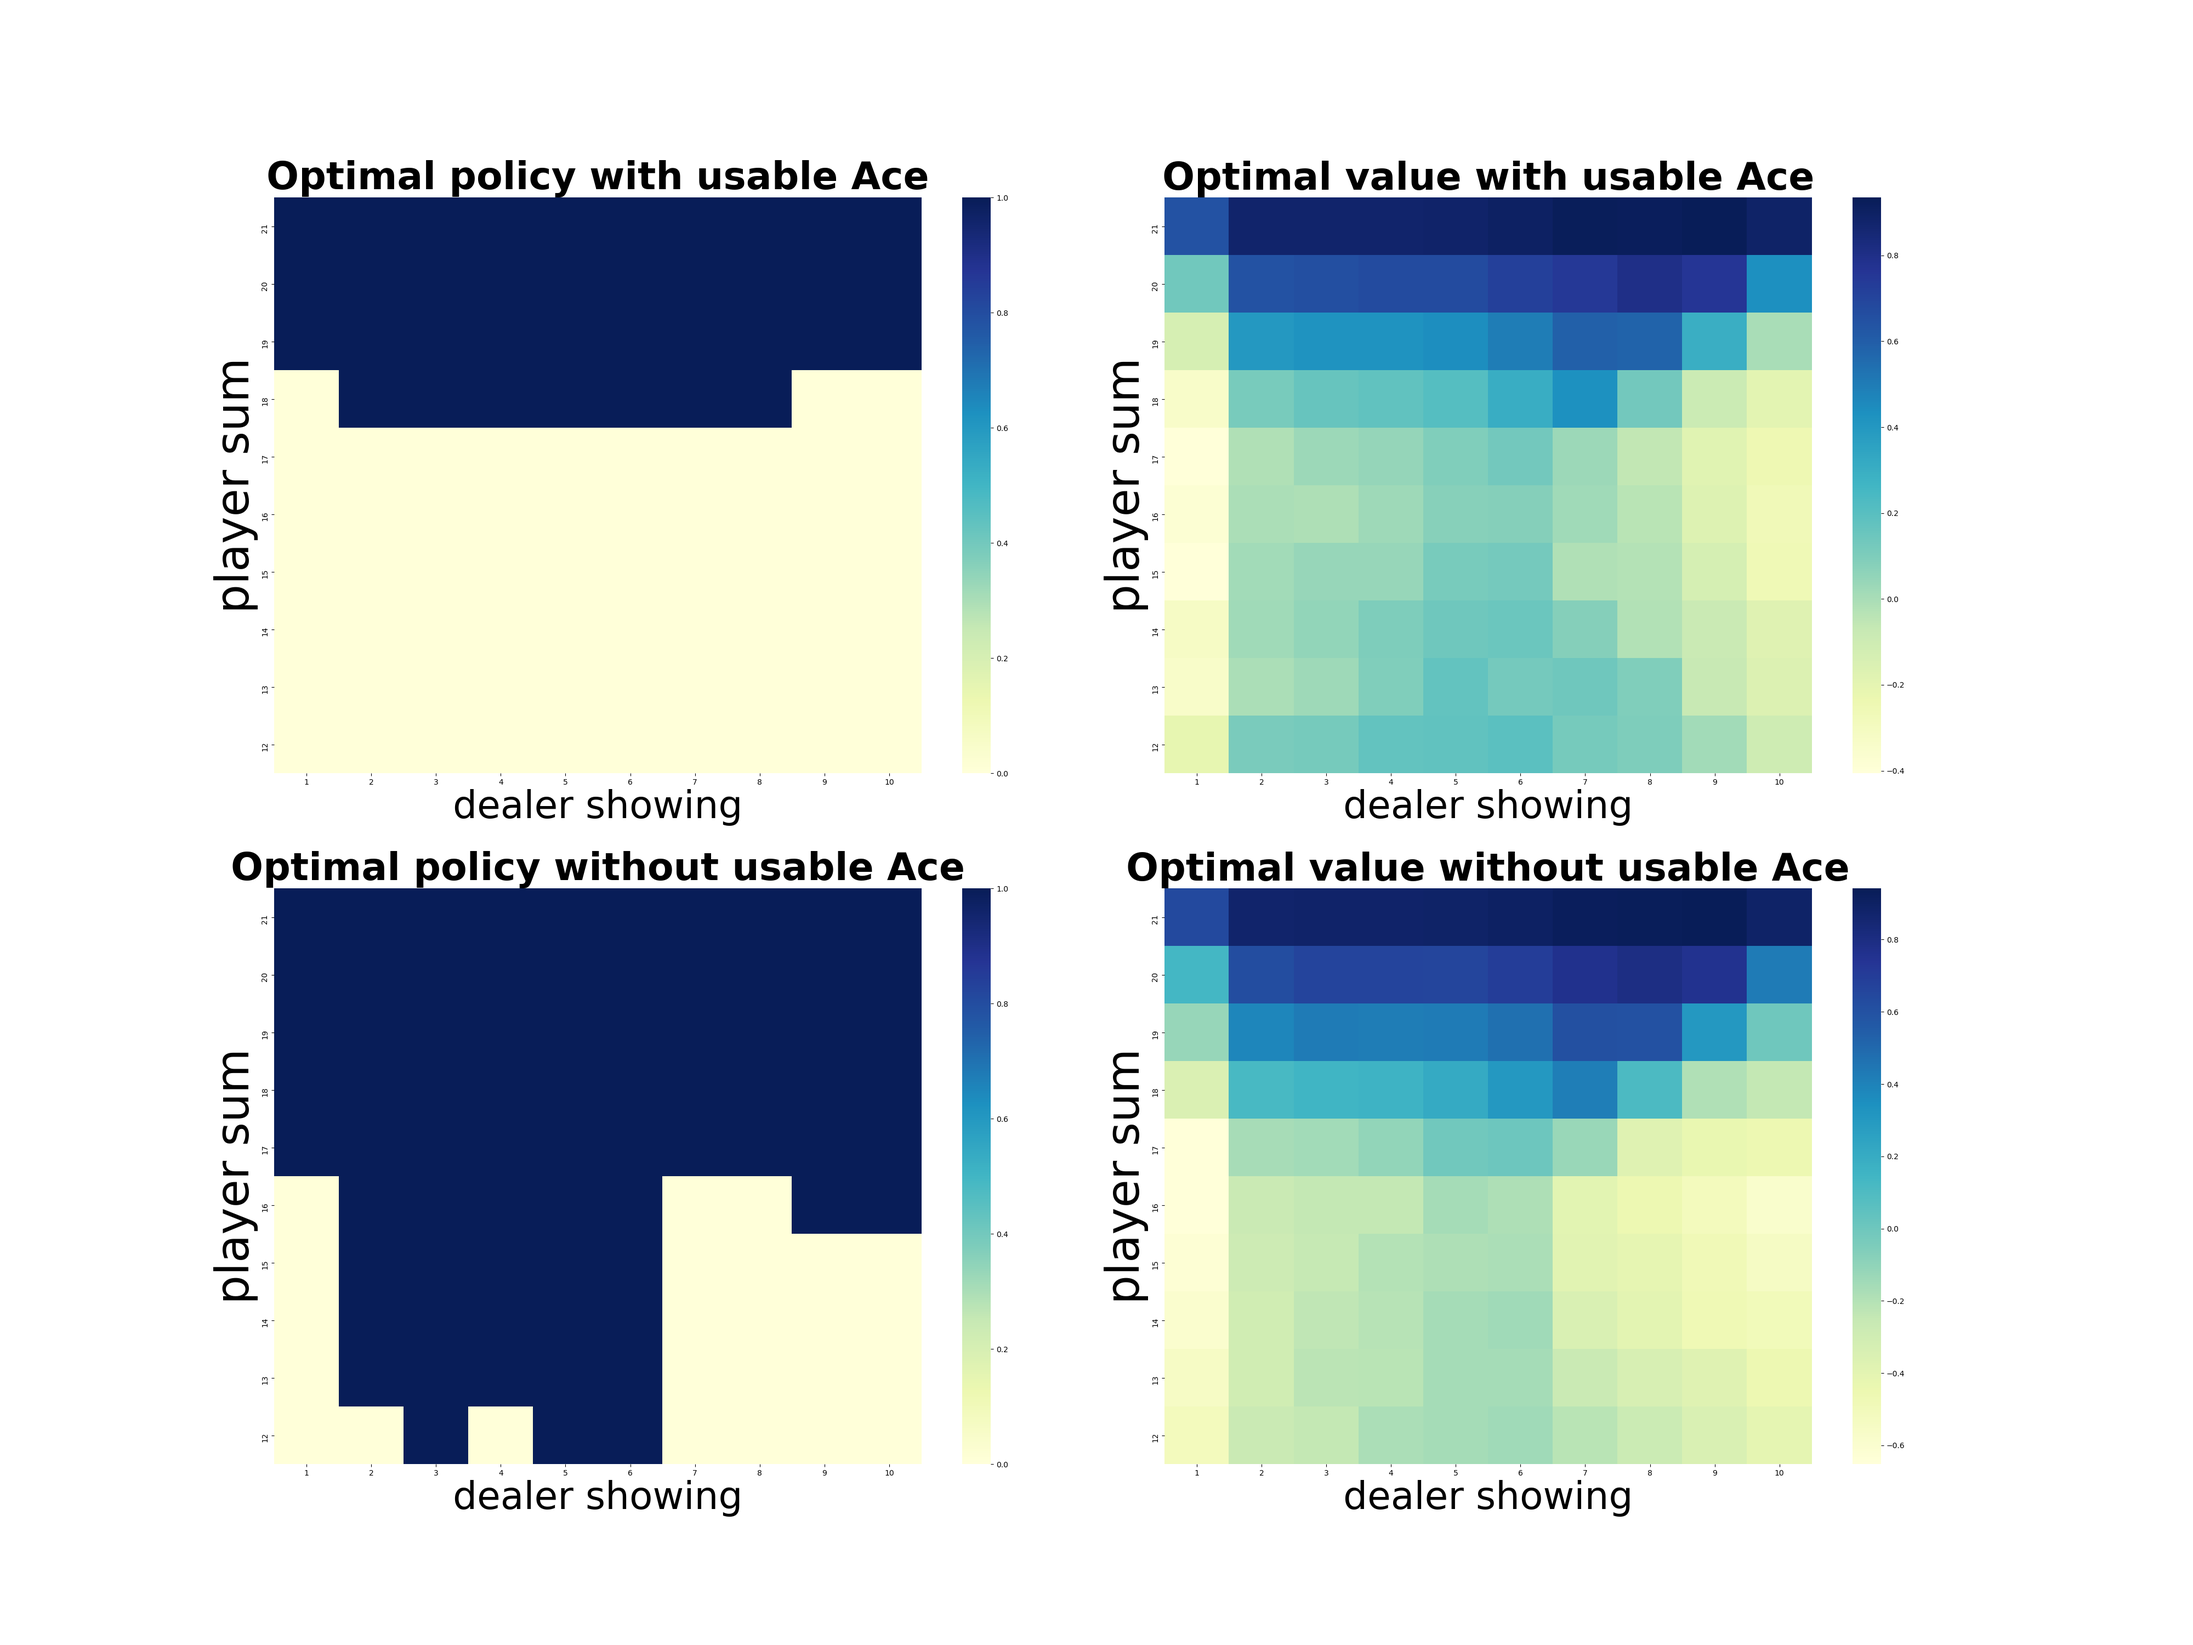
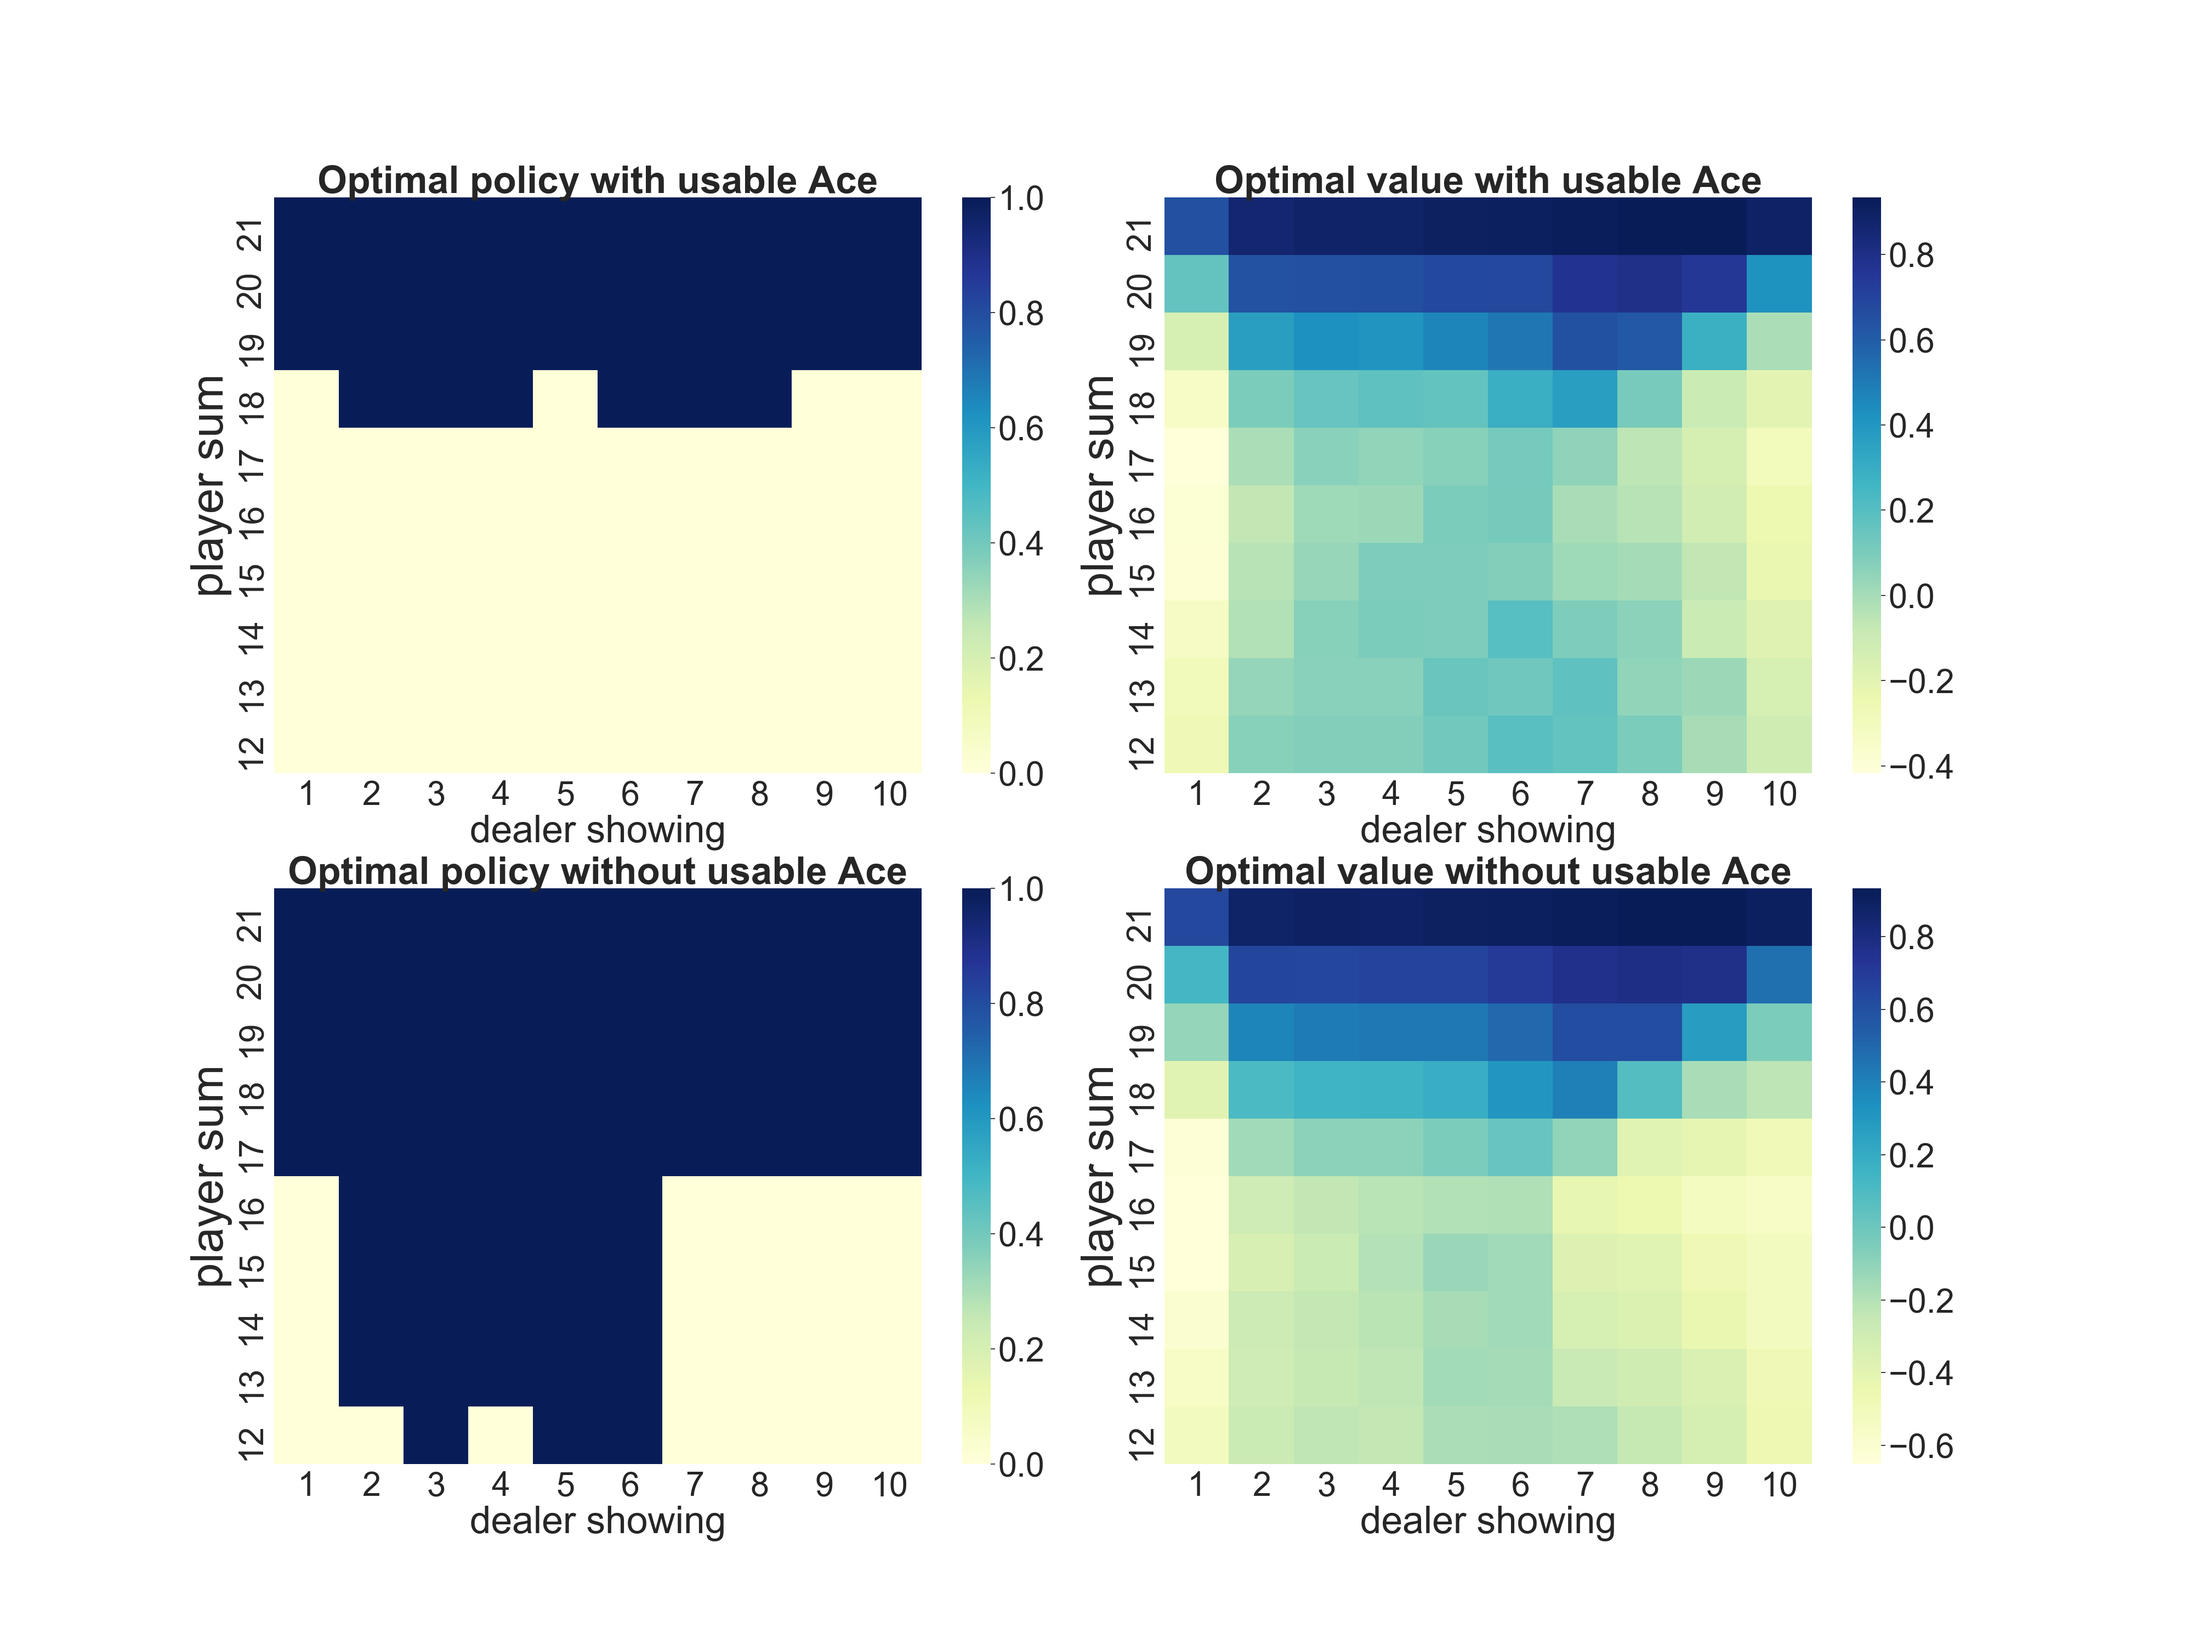
...

diff --git a/chapter_05/blackjack.py b/chapter_05/blackjack.py
@@ -175,10 +175,10 @@ def monte_carlo_on_policy(episodes):
     for _ in tqdm(range(0, episodes)):
         # 플레이어 타깃 정책으로만 블랙 잭 게임을 진행하며 학습
         _, reward, player_experience_trajectory = play_black_jack(target_policy_player)
-        for (usable_ace, player_cards_sum, dealer_card), _ in player_experience_trajectory:
+        for (usable_ace_player, player_cards_sum, dealer_card), _ in player_experience_trajectory:
             player_cards_sum -= 12
             dealer_card -= 1
-            if usable_ace:
+            if usable_ace_player:
                 states_usable_ace_count[player_cards_sum, dealer_card] += 1
                 states_usable_ace[player_cards_sum, dealer_card] += reward
             else:
@@ -283,6 +283,7 @@ def mc_on_policy():
     plt.subplots_adjust(wspace=0.1, hspace=0.2)
     axes = axes.flatten()
 
+    sns.set(font_scale=4)
     for state, title, axis in zip(states, titles, axes):
         fig = sns.heatmap(np.flipud(state), cmap="YlGnBu", ax=axis, xticklabels=range(1, 11),
                           yticklabels=list(reversed(range(12, 22))))
@@ -318,6 +319,7 @@ def mc_exploring_start():
     plt.subplots_adjust(wspace=0.1, hspace=0.2)
     axes = axes.flatten()
 
+    sns.set(font_scale=4)
     for image, title, axis in zip(images, titles, axes):
         fig = sns.heatmap(np.flipud(image), cmap="YlGnBu", ax=axis, xticklabels=range(1, 11),
                           yticklabels=list(reversed(range(12, 22))))
@@ -344,6 +346,7 @@ def mc_off_policy():
     error_weighted_sampling /= runs
 
     # 학습 결과를 이미지로 정리하여 저장하기 위한 코드
+    sns.set(font_scale=1)
     plt.plot(error_ordinary_sampling, label='Ordinary Importance Sampling')
     plt.plot(error_weighted_sampling, label='Weighted Importance Sampling')
     plt.xlabel('Episodes (log scale)', fontsize=10)
